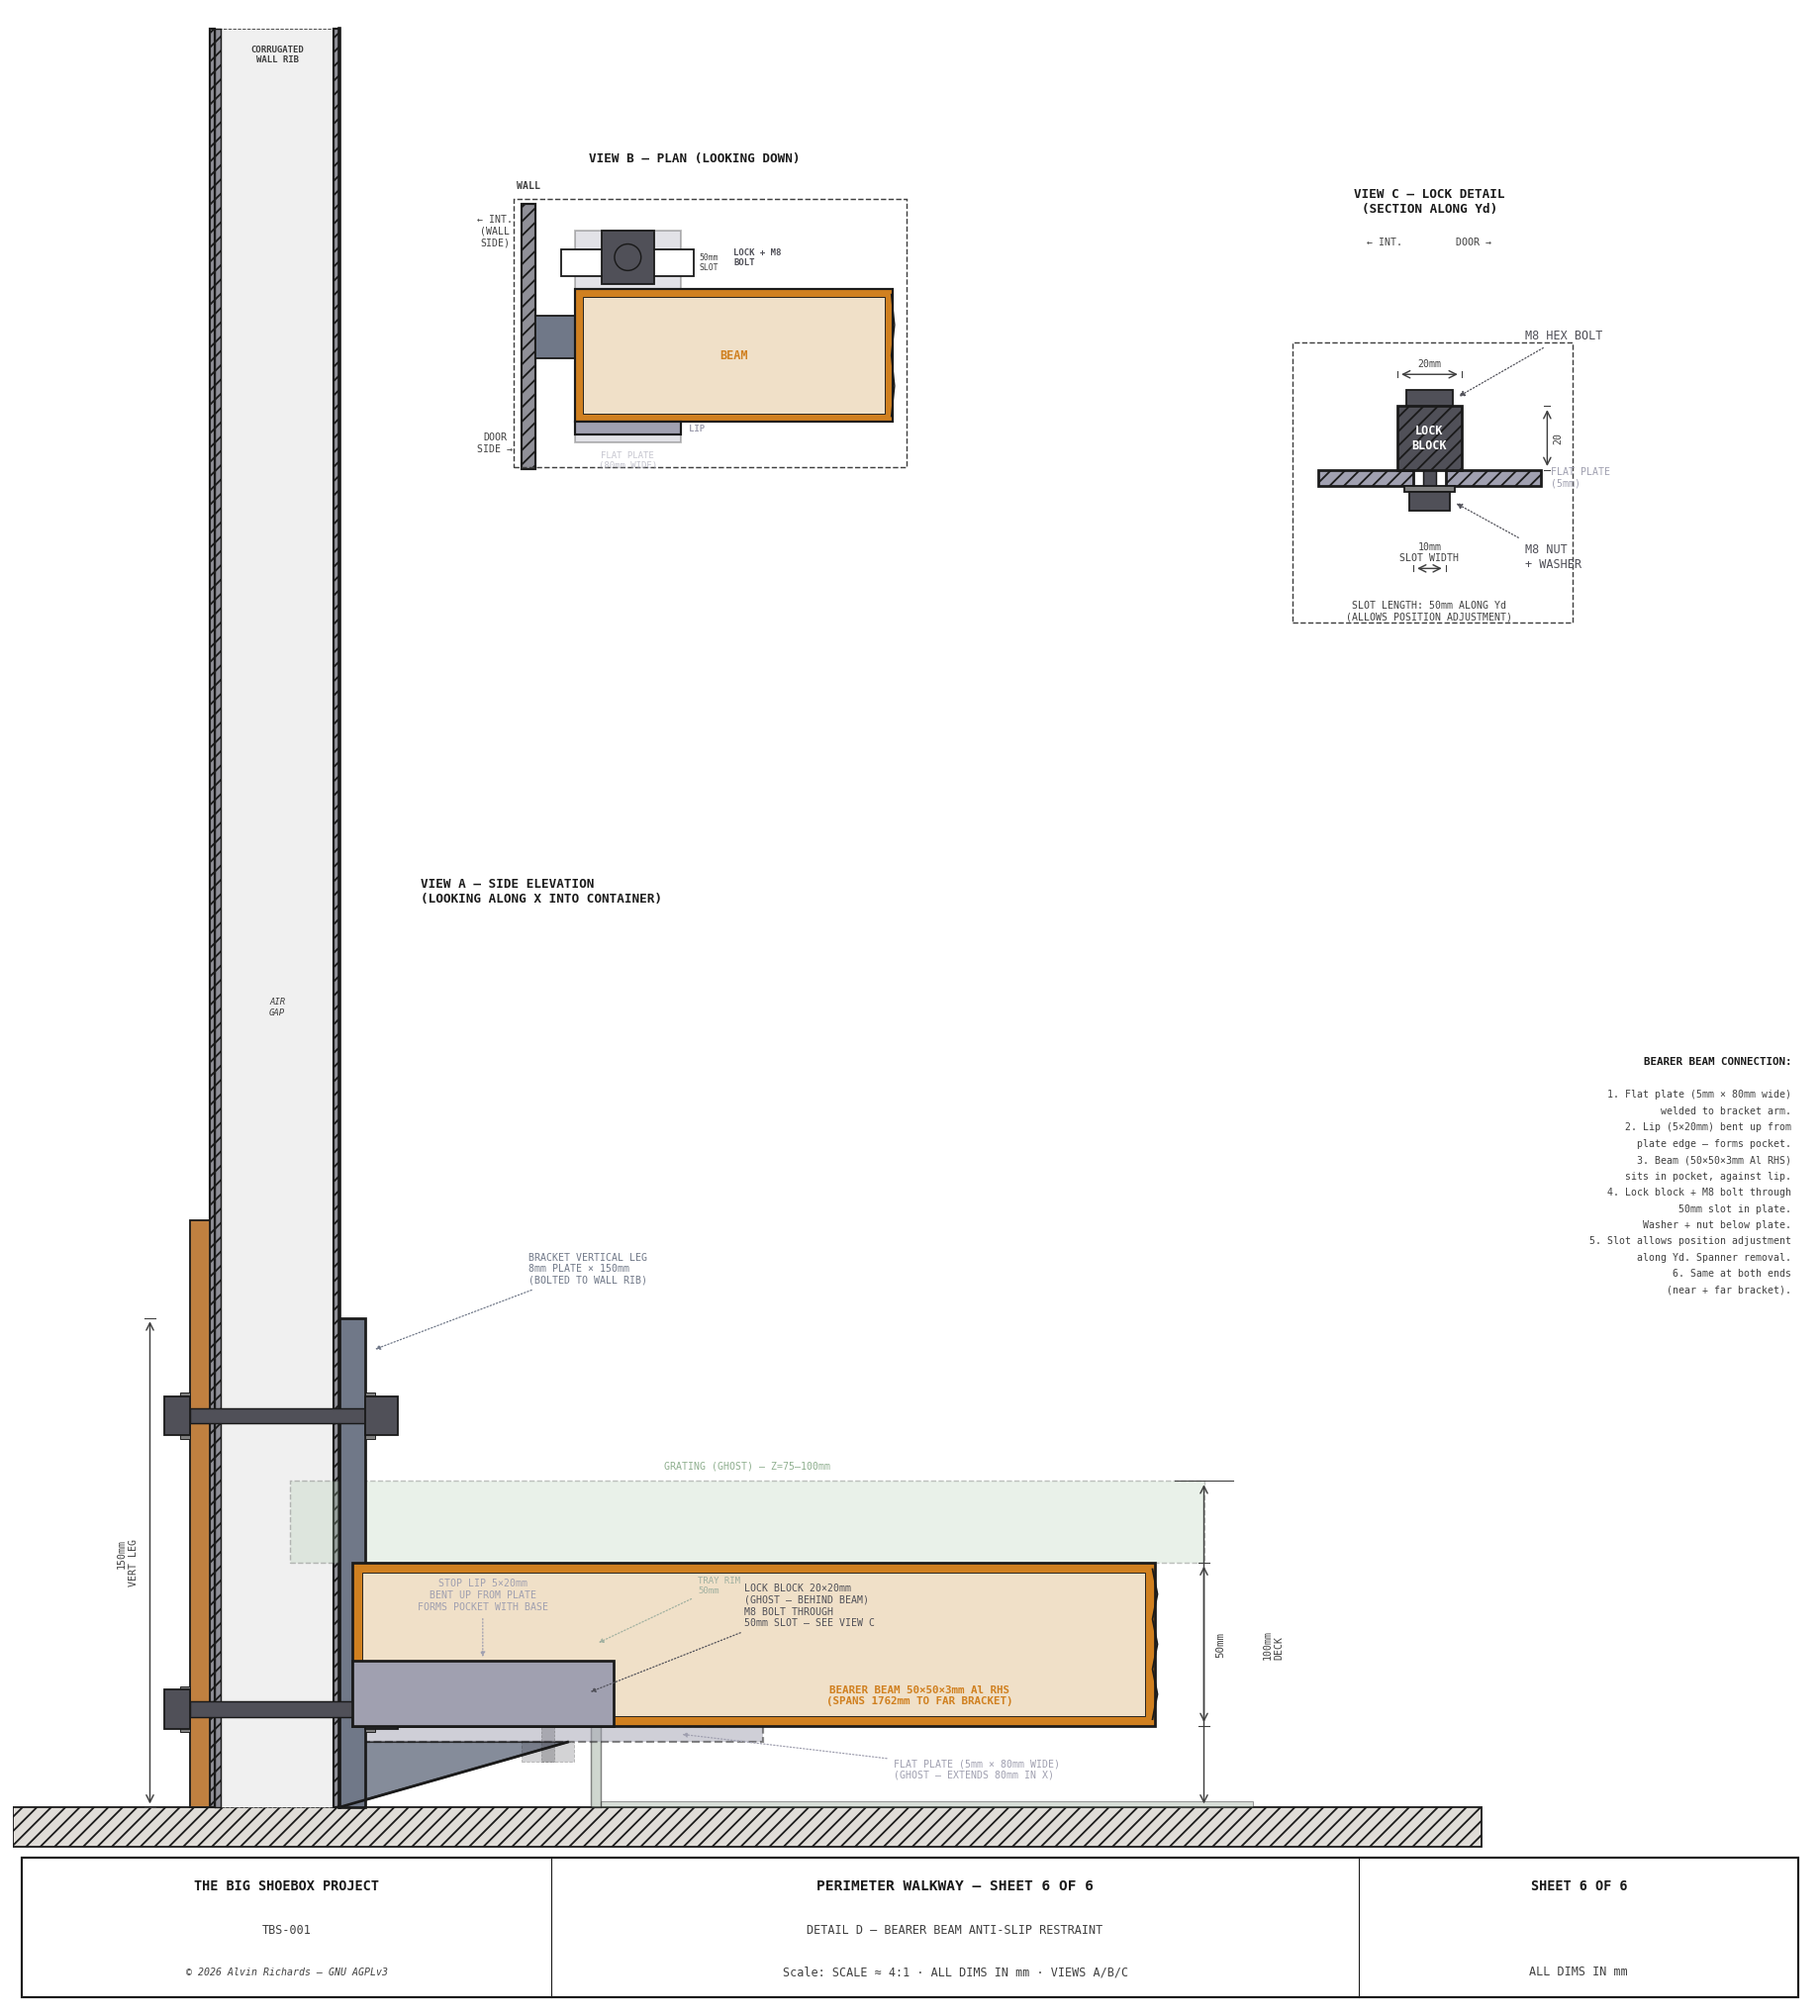
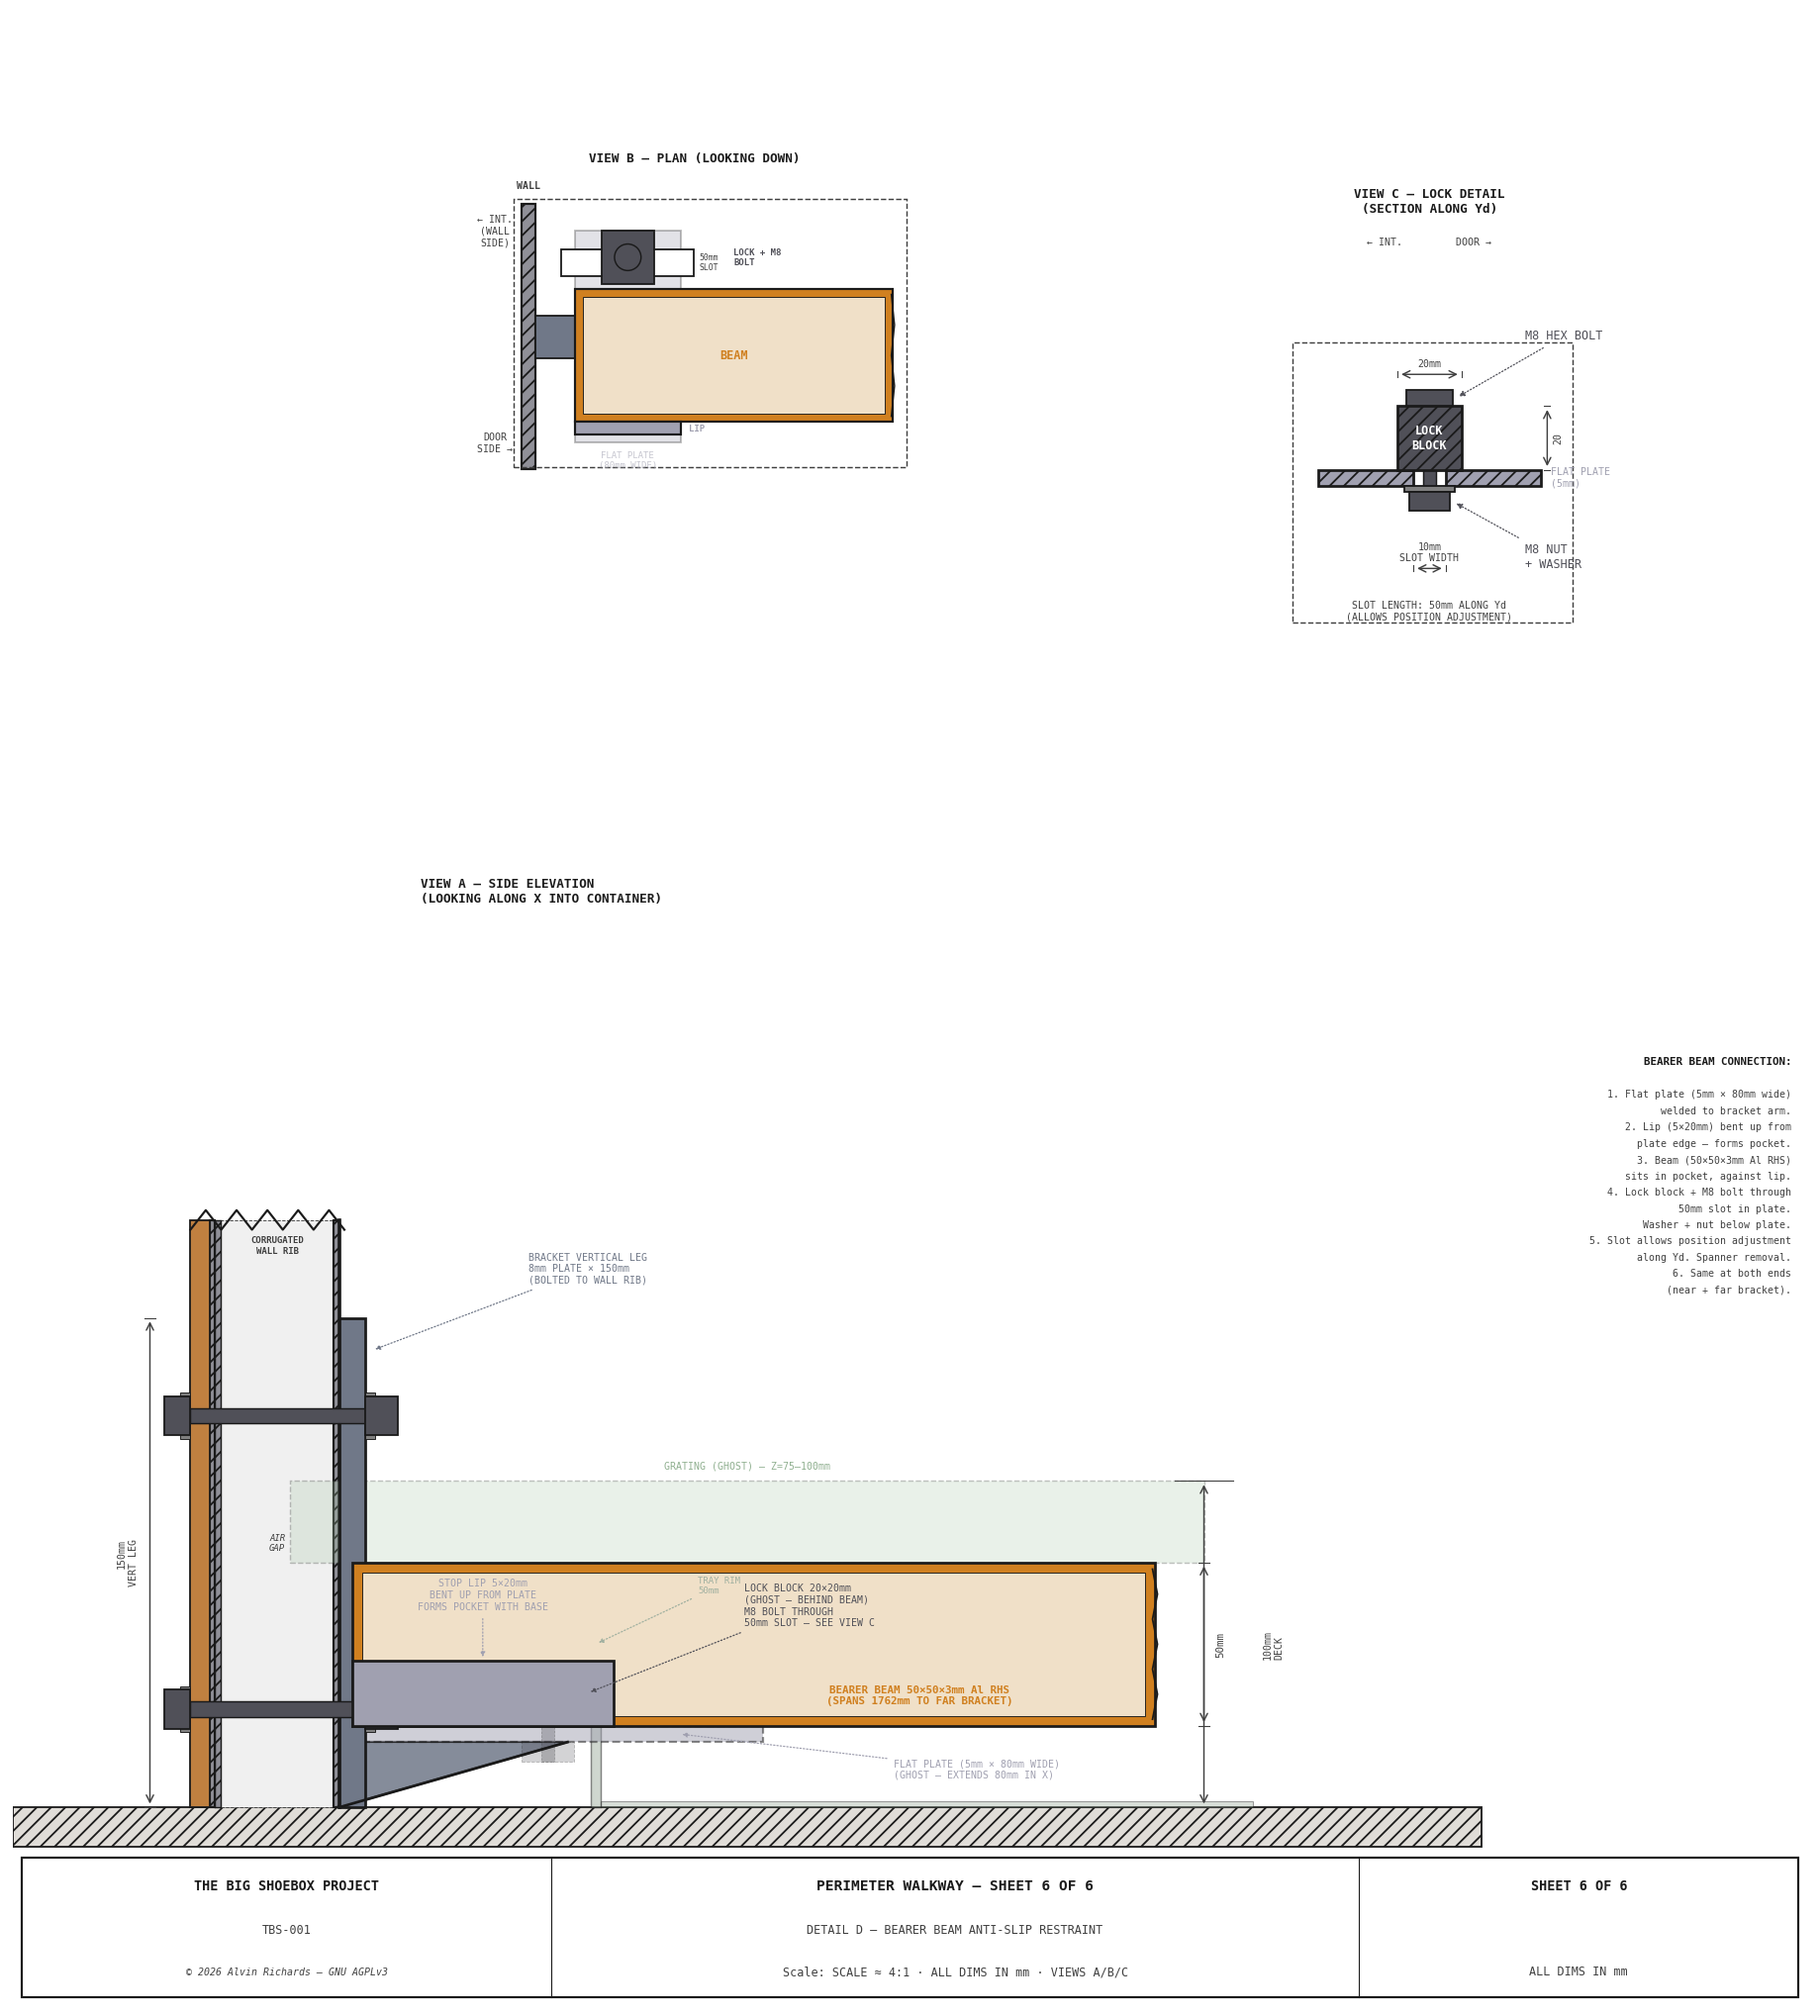
Sheet 6: shorten wall above bracket, add break line at top

Changed region(s): [[0.093, 0.0, 0.186, 0.6186]]

diff --git a/generate_walkway_diagram.py b/generate_walkway_diagram.py
@@ -1942,7 +1942,7 @@ def sheet6():
     # ── Corrugated wall (hollow rib profile — matching sheet 3) ──────────────
     ext_panel_yd = -CORR_DEPTH - WALL_T
     reinf_yd = ext_panel_yd - REINF_T
-    wall_z_top = Z_HI - 5
+    wall_z_top = BRKT_VERT + 30   # cut just above bracket top + break line
 
     # Exterior wall steel panel
     ax.add_patch(Rectangle((sx(ext_panel_yd), sy(0)),
@@ -1965,6 +1965,12 @@ def sheet6():
             **FONT, zorder=15, style="italic")
     ax.plot([sx(0), sx(0)], [sy(0), sy(wall_z_top)],
             color=C_OUT, lw=2.0, zorder=4)
+    # Sawtooth break line at top of wall (wall continues upward)
+    n_teeth = 5
+    xs_brk = np.linspace(ext_panel_yd - REINF_T, WALL_T, n_teeth * 2 + 1)
+    teeth_y = [wall_z_top + (3 if i % 2 == 1 else -3) for i in range(len(xs_brk))]
+    ax.plot([sx(x) for x in xs_brk], [sy(y) for y in teeth_y],
+            color=C_OUT, lw=1.2, zorder=15)
     ax.text(sx(-CORR_DEPTH / 2), sy(wall_z_top - 5),
             "CORRUGATED\nWALL RIB", ha="center", va="top", fontsize=5, color=C_DIM,
             fontweight="bold", **FONT, zorder=15)
